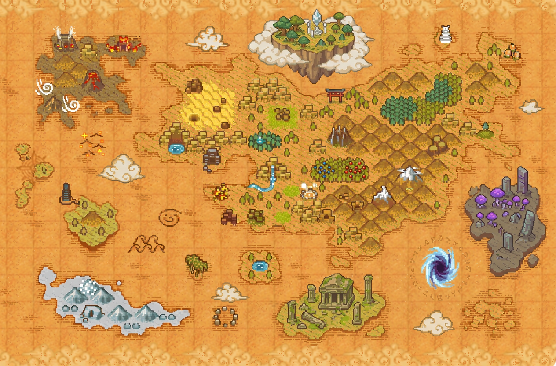
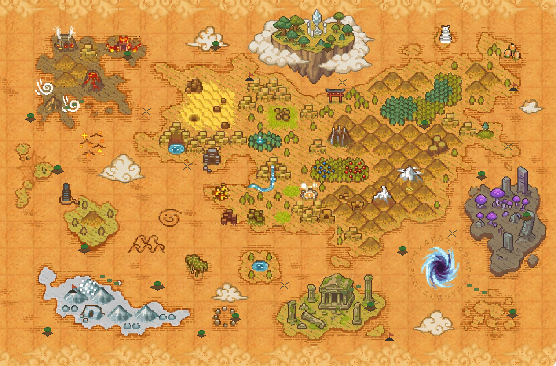
Enrich nine-continent map with maritime details

diff --git a/source/world_map_9_continents_v1/build.py b/source/world_map_9_continents_v1/build.py
@@ -7,6 +7,23 @@ if OUT.exists():shutil.rmtree(OUT)
 LAY.mkdir(parents=True,exist_ok=True)
 source_background=Image.open(FOND);base=source_background.convert('RGBA');raw=Image.open(RAW).convert('RGBA').resize(base.size,Image.Resampling.NEAREST)
 a=np.array(raw);sample=a[4,4,:3].astype(int);dist=np.sqrt(((a[:,:,:3].astype(int)-sample)**2).sum(axis=2));a[:,:,3]=np.where(dist<26,0,a[:,:,3]);fg=Image.fromarray(a)
+# Enrich the open sea with small pixel-art islands, reefs, boats and navigation marks.
+# These are maritime islets, not additional continents; the nine main landmasses remain unchanged.
+from PIL import ImageDraw
+d=ImageDraw.Draw(fg)
+def island(x,y,w=7,h=4,accent=(105,74,42,255),green=True):
+    d.polygon([(x-w,y),(x-w+2,y-h//2),(x-2,y-h),(x+w-2,y-h+1),(x+w,y),(x+w-2,y+h//2),(x,y+h),(x-w+2,y+h//2)],fill=(73,54,43,255))
+    d.polygon([(x-w+1,y-1),(x-2,y-h+1),(x+w-2,y-h),(x+w-1,y),(x,y+h-1),(x-w+2,y+1)],fill=accent)
+    if green:
+        d.rectangle((x-1,y-h-3,x+1,y-h+1),fill=(44,82,42,255)); d.rectangle((x-3,y-h-2,x+3,y-h),fill=(59,112,48,255)); d.point((x+2,y-h-3),fill=(86,139,59,255))
+for args in [(30,119,5,3),(57,171,6,3),(84,250,6,3),(127,57,5,3),(157,287,7,3),(215,47,5,3),(235,319,5,3),(327,49,5,3),(370,308,6,3),(424,126,5,3),(481,177,5,3),(526,218,6,3),(512,315,5,3),(47,333,5,3),(201,335,4,2),(402,252,5,3)]: island(*args)
+# tiny archipelago chains, reefs and sailing marks
+for x,y in [(67,107),(74,104),(81,101),(102,276),(109,280),(116,283),(344,292),(351,289),(358,286),(469,285),(476,289),(484,292)]:
+    d.rectangle((x-2,y-1,x+2,y+1),fill=(80,112,65,230)); d.point((x,y-2),fill=(179,145,62,255))
+for x,y in [(146,111),(187,166),(342,82),(452,233),(284,285),(508,146)]:
+    d.line((x-4,y+3,x+4,y-3),fill=(71,71,58,220),width=1); d.line((x-3,y-3,x+3,y+3),fill=(71,71,58,220),width=1); d.point((x,y),fill=(210,164,62,255))
+for x,y in [(72,289),(249,77),(389,337),(513,87)]:
+    d.polygon([(x-4,y+3),(x+4,y+3),(x+2,y+1),(x-2,y+1)],fill=(58,50,45,255)); d.line((x,y-5,x,y+1),fill=(55,55,48,255)); d.polygon([(x,y-5),(x,y-1),(x+4,y-2)],fill=(174,83,49,255))
 shutil.copy2(FOND, LAY/'00_fond_committe_image.png');fg.save(LAY/'01_continents_iles_lieux.png');full=base.copy();full.alpha_composite(fg);full.save(OUT/'WorldMap_9_Continents_UserBackground.png')
 state={'format':'WorldMapUserFondTwoLayer','canvas_px':list(base.size),'source_background':'source/user_committed_map_background.png','layers':['layers/00_fond_committe_image.png','layers/01_continents_iles_lieux.png'],'continents':9,'elements':['small islands','floating islands','spatial rift','varied biomes']}
 (OUT/'world_map_state.json').write_text(json.dumps(state,ensure_ascii=False,indent=2));files={}
